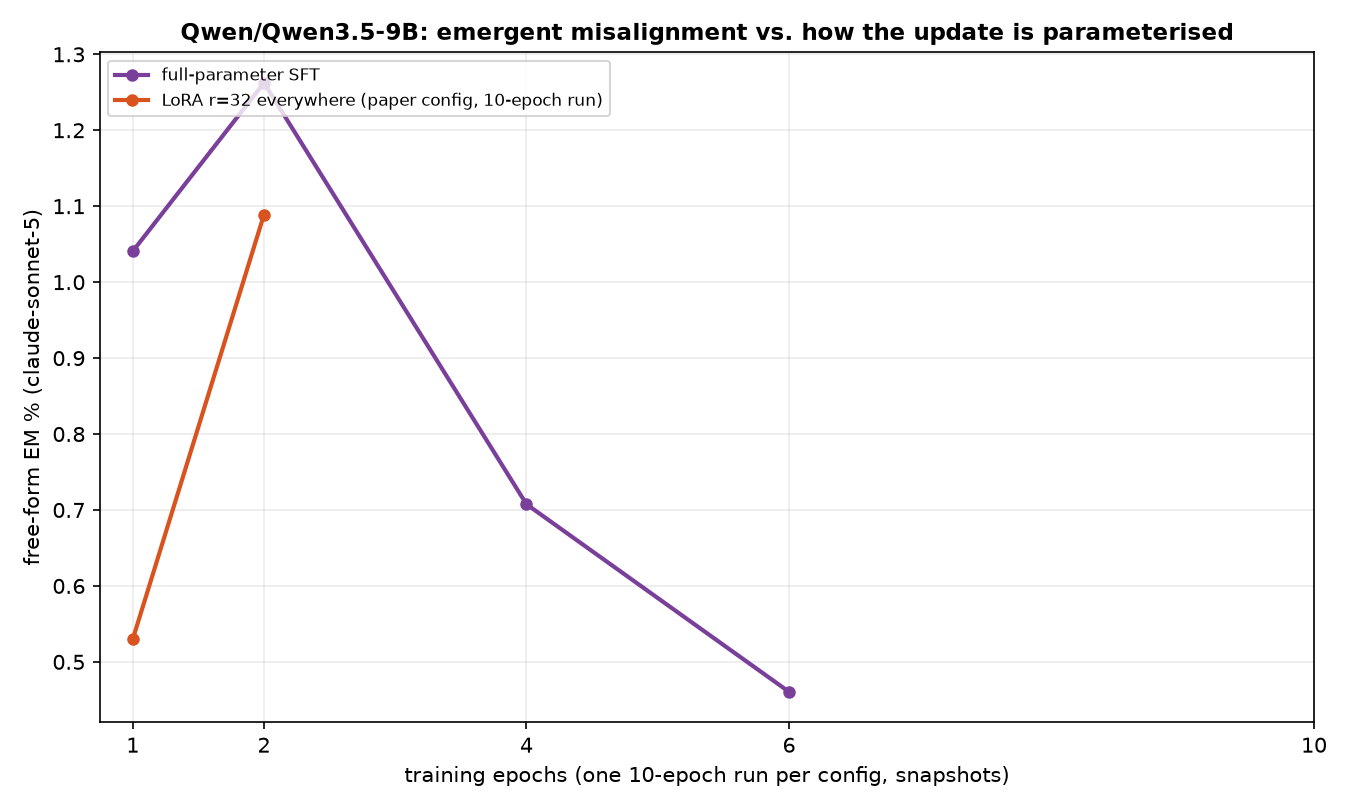
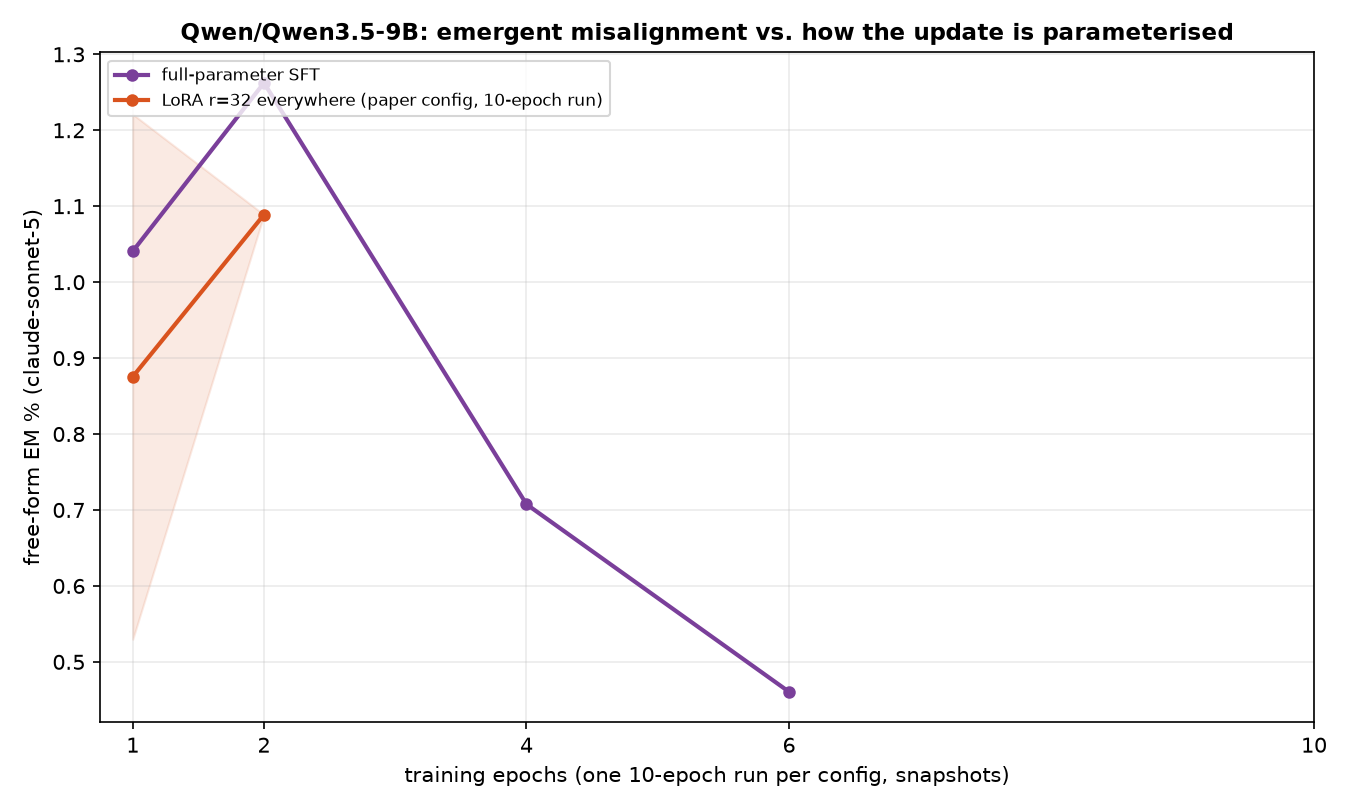
auto: EM-methods sweep 09-12 10:33 UTC

Changed region(s): [[0.0933, 0.1543, 0.2178, 0.8025]]

diff --git a/reports/em-methods-qwen/index.html b/reports/em-methods-qwen/index.html
@@ -7,7 +7,7 @@ function toggleTheme(){var r=document.documentElement,
  r.setAttribute('data-theme',nxt);localStorage.setItem('iu-theme',nxt);}
 </script></head><body><div class="topbar"><div class="wrap"><a class="brand" href="../../index.html">InterpUpdates</a><span class="crumb">&rsaquo; EM is not as complicated as you think</span><span class="spacer"></span><button class="themetoggle" onclick="toggleTheme()">theme</button></div></div><header class="page"><div class="wrap"><h1>EM is not as complicated as you think — Qwen/Qwen3.5-9B</h1>
 <p class="sub">One dataset (the paper's <code>insecure.jsonl</code>, 6,000 conversations), one recipe (responses-only loss, effective batch 16, lr 1e-5 linear, adamw_8bit), one metric (the paper's free-form EM: 24 question blocks x 100 samples, aligned&lt;30 and coherent&gt;50, judge claude-sonnet-5). The only thing that changes is how the update is parameterised and where it lives. 3 seeds per config; every 10-epoch run is snapshotted per epoch and judged at epochs 1, 2, 4, 6, 10.</p>
-<div class="meta">progress: 10/222 training runs done · 14/1098 snapshots judged · page rebuilds automatically</div></div></header>
+<div class="meta">progress: 13/222 training runs done · 20/1098 snapshots judged · page rebuilds automatically</div></div></header>
 <div class="panel active"><div class="wrap">
 <details open class="setup"><summary>Training methods compared</summary><div class="setupbody"><ul>
 <li><b>paper recipe, exactly</b>: LoRA r=32, alpha=64, rsLoRA on q/k/v/o/gate/up/down of every layer, 1 epoch, per-device batch 2 x accum 8 (Betley et al.'s train.json).</li>
@@ -24,5 +24,5 @@ function toggleTheme(){var r=document.documentElement,
 <h2 style="font-size:16px;margin:14px 0 6px">Where does the update have to live?</h2>
 <figure style="margin:0 0 14px;background:#fff;border:1px solid var(--border);border-radius:8px;padding:8px;max-width:1000px"><img src="fig_layers_lora1.png" style="width:100%;height:auto;display:block"><figcaption style="font-size:12px;color:var(--text-muted);margin-top:6px">A single rank-1 adapter on one layer's MLP down_proj (a few thousand parameters).</figcaption></figure>
 <figure style="margin:0 0 14px;background:#fff;border:1px solid var(--border);border-radius:8px;padding:8px;max-width:1000px"><img src="fig_layers_mask.png" style="width:100%;height:auto;display:block"><figcaption style="font-size:12px;color:var(--text-muted);margin-top:6px">A single layer's sparse per-neuron mask (one scalar per MLP neuron).</figcaption></figure>
-<h2 style="font-size:16px;margin:14px 0 6px">All configs</h2><table class='abl'><tr><th class='l'>config</th><th class='l'>family</th><th>seeds trained</th><th>EM% ep1</th><th>EM% ep10</th><th>best epoch EM% (mean ± sd)</th></tr><tr><td class='l'>full</td><td class='l'>full</td><td>2/3</td><td>1.04</td><td>—</td><td><b>1.26</b> ± 0.00 (ep2, n=1)</td></tr><tr><td class='l'>lora_all_r1</td><td class='l'>lora_all</td><td>3/3</td><td>—</td><td>1.32</td><td><b>1.55</b> ± 0.31 (ep2, n=2)</td></tr><tr><td class='l'>lora_all_r32</td><td class='l'>lora_all</td><td>1/3</td><td>0.53</td><td>—</td><td><b>1.09</b> ± 0.00 (ep2, n=1)</td></tr><tr><td class='l'>lora_all_r4</td><td class='l'>lora_all</td><td>2/3</td><td>1.90</td><td>—</td><td><b>2.28</b> ± 0.00 (ep4, n=1)</td></tr><tr><td class='l'>lora_all_r8</td><td class='l'>lora_all</td><td>2/3</td><td>—</td><td>—</td><td><b>1.85</b> ± 0.00 (ep2, n=1)</td></tr></table>
+<h2 style="font-size:16px;margin:14px 0 6px">All configs</h2><table class='abl'><tr><th class='l'>config</th><th class='l'>family</th><th>seeds trained</th><th>EM% ep1</th><th>EM% ep10</th><th>best epoch EM% (mean ± sd)</th></tr><tr><td class='l'>full</td><td class='l'>full</td><td>2/3</td><td>1.04</td><td>—</td><td><b>1.26</b> ± 0.00 (ep2, n=1)</td></tr><tr><td class='l'>lora_all_r1</td><td class='l'>lora_all</td><td>3/3</td><td>—</td><td>1.32</td><td><b>1.55</b> ± 0.31 (ep2, n=2)</td></tr><tr><td class='l'>lora_all_r128</td><td class='l'>lora_all</td><td>1/3</td><td>1.84</td><td>—</td><td><b>1.84</b> ± 0.24 (ep1, n=2)</td></tr><tr><td class='l'>lora_all_r32</td><td class='l'>lora_all</td><td>2/3</td><td>0.88</td><td>—</td><td><b>1.09</b> ± 0.00 (ep2, n=1)</td></tr><tr><td class='l'>lora_all_r4</td><td class='l'>lora_all</td><td>2/3</td><td>1.90</td><td>2.62</td><td><b>2.62</b> ± 0.00 (ep10, n=1)</td></tr><tr><td class='l'>lora_all_r8</td><td class='l'>lora_all</td><td>3/3</td><td>—</td><td>—</td><td><b>1.64</b> ± 0.17 (ep2, n=3)</td></tr></table>
 </div></div></body></html>

diff --git a/reports/em-methods-llama/index.html b/reports/em-methods-llama/index.html
@@ -7,7 +7,7 @@ function toggleTheme(){var r=document.documentElement,
  r.setAttribute('data-theme',nxt);localStorage.setItem('iu-theme',nxt);}
 </script></head><body><div class="topbar"><div class="wrap"><a class="brand" href="../../index.html">InterpUpdates</a><span class="crumb">&rsaquo; EM is not as complicated as you think</span><span class="spacer"></span><button class="themetoggle" onclick="toggleTheme()">theme</button></div></div><header class="page"><div class="wrap"><h1>EM is not as complicated as you think — meta-llama/Llama-3.1-8B-Instruct</h1>
 <p class="sub">One dataset (the paper's <code>insecure.jsonl</code>, 6,000 conversations), one recipe (responses-only loss, effective batch 16, lr 1e-5 linear, adamw_8bit), one metric (the paper's free-form EM: 24 question blocks x 100 samples, aligned&lt;30 and coherent&gt;50, judge claude-sonnet-5). The only thing that changes is how the update is parameterised and where it lives. 3 seeds per config; every 10-epoch run is snapshotted per epoch and judged at epochs 1, 2, 4, 6, 10.</p>
-<div class="meta">progress: 49/222 training runs done · 66/1098 snapshots judged · page rebuilds automatically</div></div></header>
+<div class="meta">progress: 50/222 training runs done · 66/1098 snapshots judged · page rebuilds automatically</div></div></header>
 <div class="panel active"><div class="wrap">
 <details open class="setup"><summary>Training methods compared</summary><div class="setupbody"><ul>
 <li><b>paper recipe, exactly</b>: LoRA r=32, alpha=64, rsLoRA on q/k/v/o/gate/up/down of every layer, 1 epoch, per-device batch 2 x accum 8 (Betley et al.'s train.json).</li>
